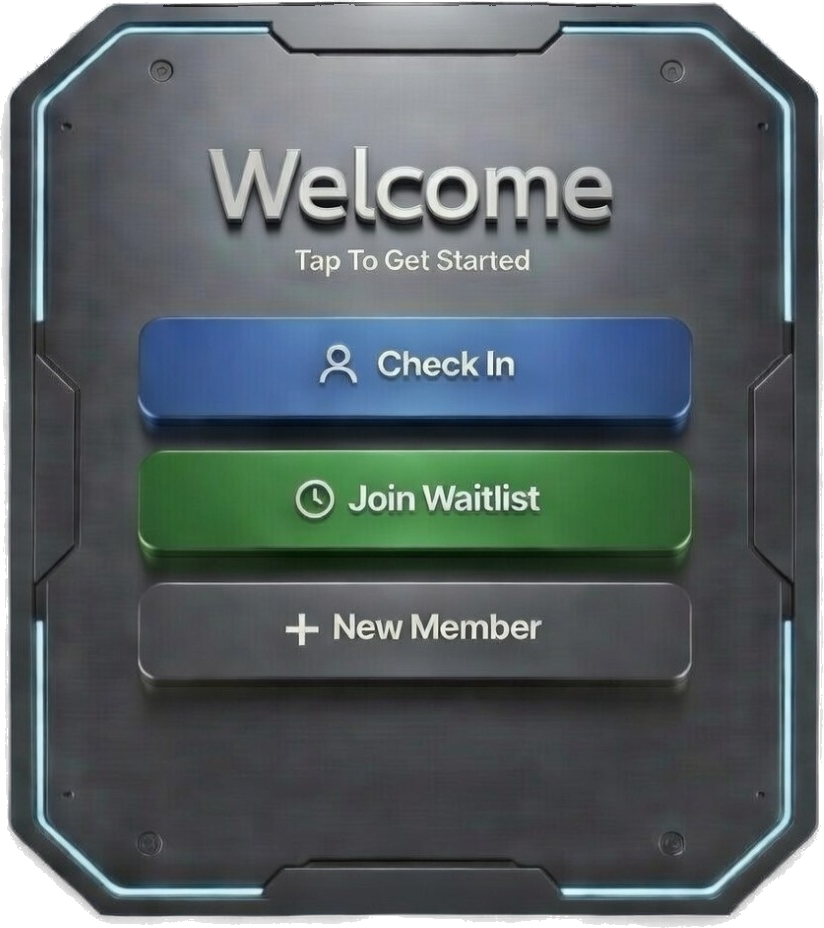
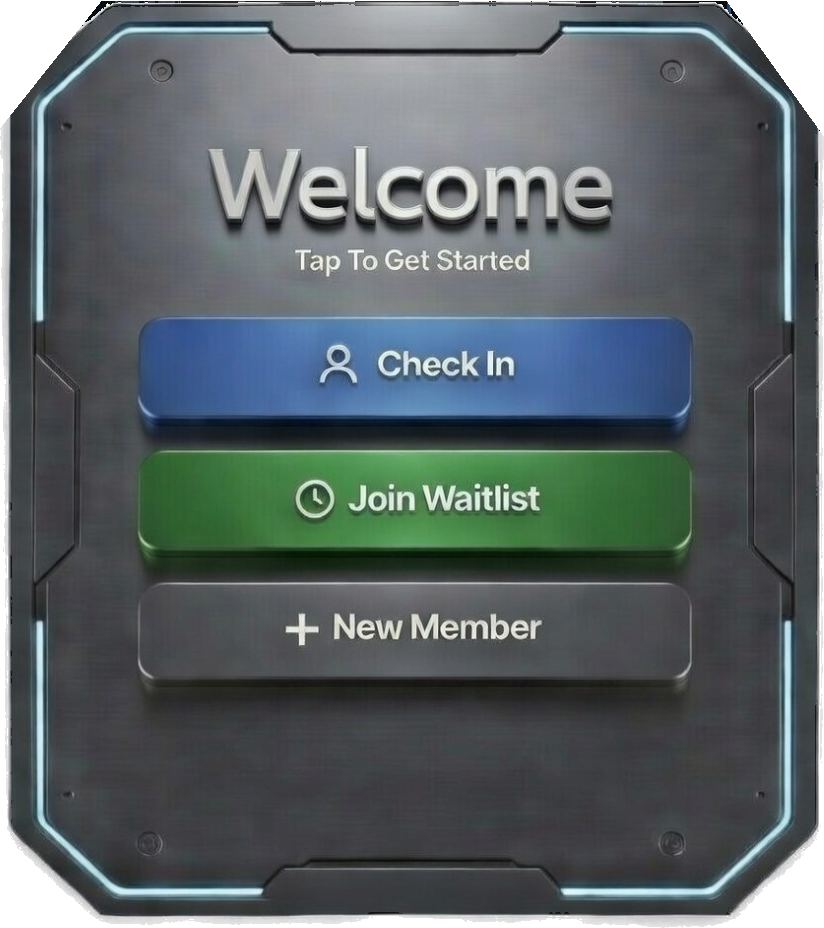
fix: v28 kiosk — geometric straight-line top chamfer + full alpha matte + decontamination

diff --git a/pages/commander/kiosk.js b/pages/commander/kiosk.js
@@ -441,7 +441,7 @@ export default function MembershipKiosk() {
             <div style={{ position: 'relative', maxWidth: '90%', maxHeight: '90%', display: 'flex' }}>
               {/* Background Image — PNG with transparent background */}
               <img
-                src="/images/commander/kiosk-welcome.png?v=27"
+                src="/images/commander/kiosk-welcome.png?v=28"
                 alt="Welcome Kiosk"
                 style={{
                   width: '100%',
